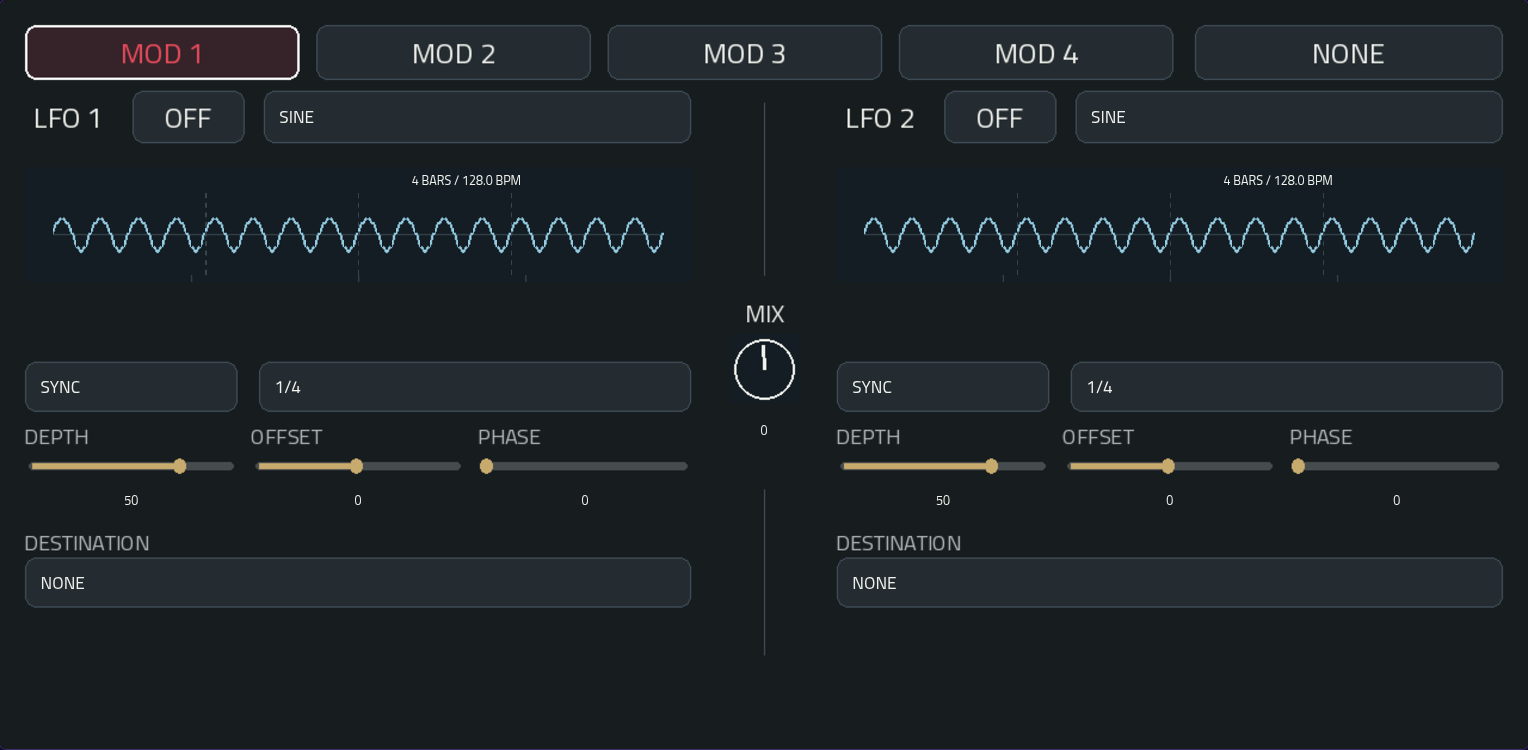
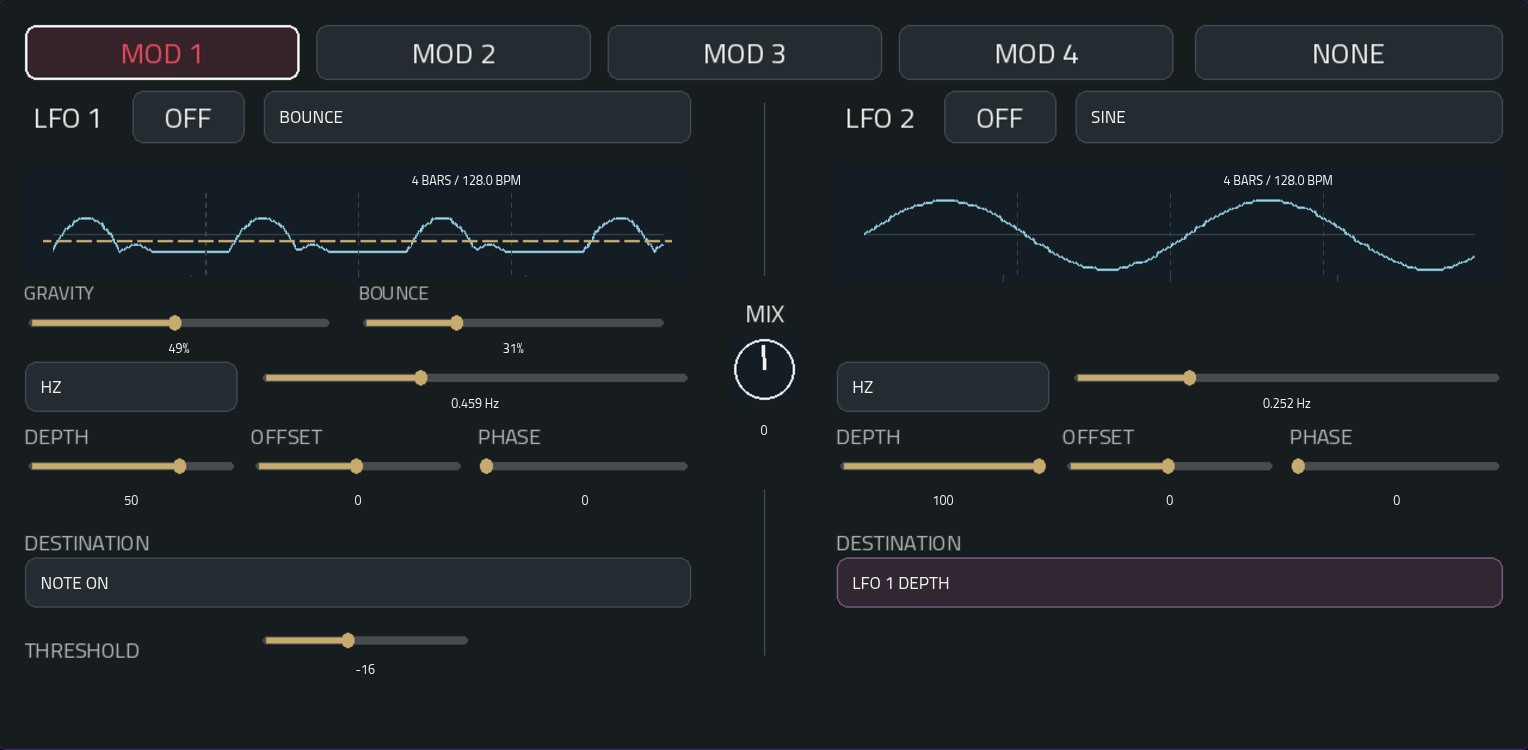
Docs: show Bounce, Note On threshold and chained LFO depth

diff --git a/docs/MODE-EMPLOI.md b/docs/MODE-EMPLOI.md
@@ -179,7 +179,7 @@ En EDIT, VELOCITY, PROBABILITY et HUMANIZE restent des références de ligne gri
 
 ## 5. MOD — deux LFO par emplacement
 
-![MOD — dual LFO controls](images/mod-commander-1.3.4.png)
+![MOD — BOUNCE vers NOTE ON ; LFO 2 module la profondeur du LFO 1](images/mod-commander-1.3.4.png)
 
 Ajoute du mouvement à une ligne, ou laisse une forme d’onde créer ses propres déclenchements.
 

diff --git a/docs/USER-MANUAL.md b/docs/USER-MANUAL.md
@@ -183,7 +183,7 @@ In EDIT, the dimmed VELOCITY, PROBABILITY and HUMANIZE controls remain lane refe
 
 ## 5. MOD — dual LFO modulation
 
-![MOD — dual LFO controls](images/mod-commander-1.3.4.png)
+![MOD — BOUNCE to NOTE ON; LFO 2 modulates LFO 1 depth](images/mod-commander-1.3.4.png)
 
 Add movement to a lane, or let a waveform create its own triggers.
 
